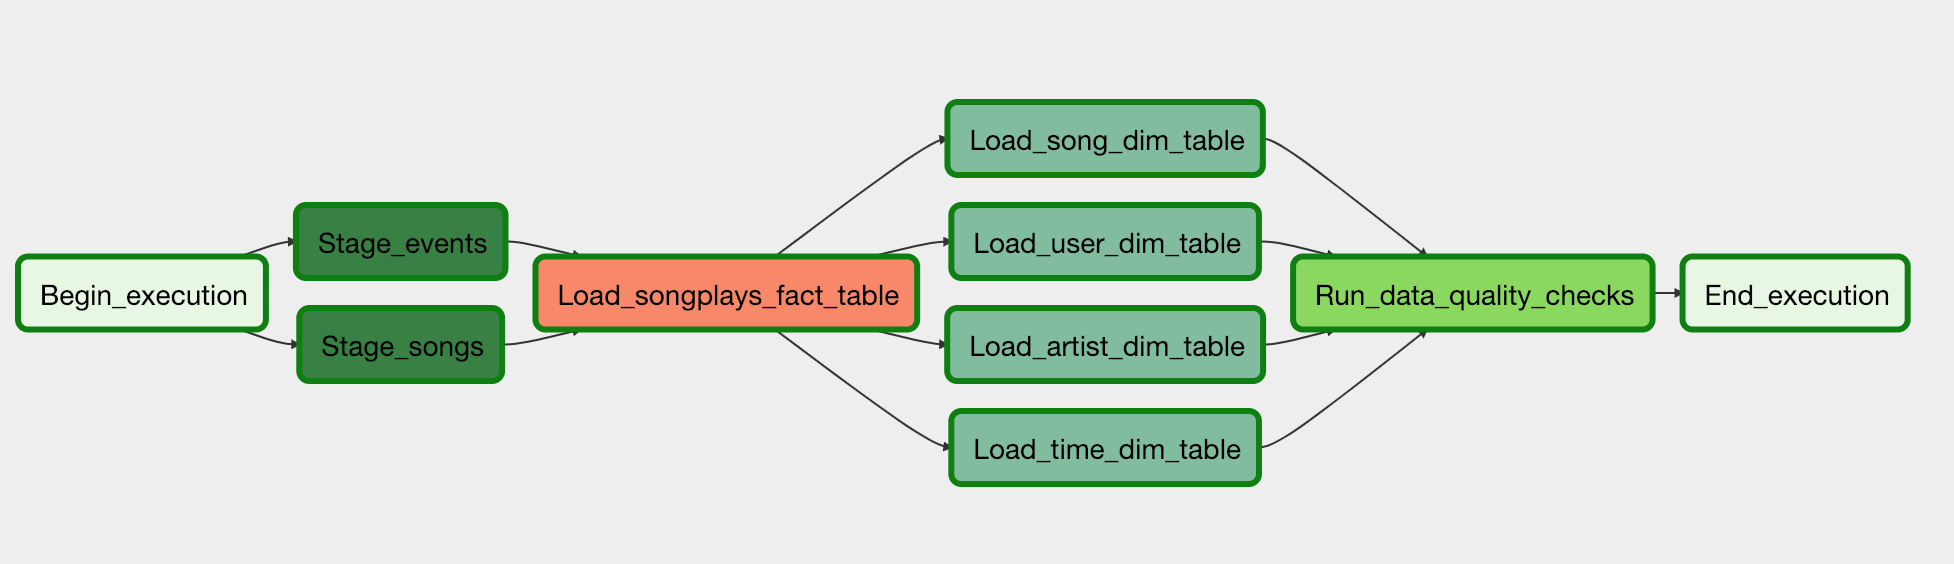
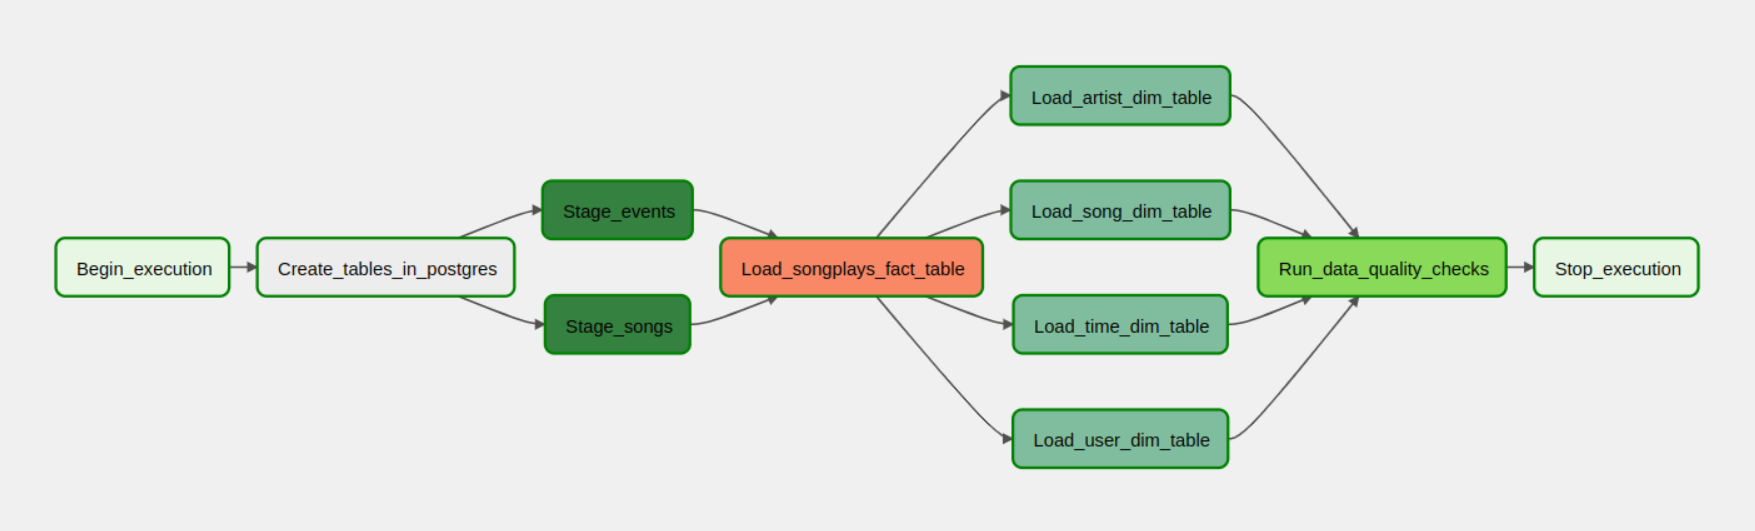
fix: documentation with picture

Changed region(s): [[0.0, 0.1205, 0.9846, 0.693], [0.4615, 0.7232, 0.7077, 0.904]]

diff --git a/README.md b/README.md
@@ -12,10 +12,11 @@ The source data resides in S3 and needs to be processed in Sparkify's data wareh
 ## Project Description
 
 In this Project an ETL Pipeline is implemented, which 
-1. copying from staging the data into redshift
-2. load the data from the staging into fact-table
-3. load the data from the staging into dimension-table
-4. run the data quality checks
+1. Creating the tables in the Redshift database if not exist
+2. copying from staging the data into redshift
+3. load the data from the staging into fact-table
+4. load the data from the staging into dimension-table
+5. run the data quality checks
 
 ![pipeline](./assets/pipeline.png)
 
@@ -210,7 +211,7 @@ terrafrom apply
 ```
 ---
 ## Installing Airflow
-Installing `airflow 2.2.4` and its packages to ease the development locally.
+Installing `airflow 2.2.4` and its packages to **ease the development** locally.
 ```bash
 export AIRFLOW_VERSION=2.2.4
 export PYTHON_VERSION="$(python --version | cut -d " " -f 2 | cut -d "." -f 1-2)"
@@ -219,15 +220,21 @@ pip install "apache-airflow[postgres,amazon]==${AIRFLOW_VERSION}" --constraint "
 ```
 
 ## Run Airflow
-1. Fill out the `dwh.cfg` file with your AWS credentials. It could be done in 2 ways:
+1. Fillout `.env` file with all necessary environment variable. It could be done in 2 ways:
    1. By creating infrastructure yourself and sync secrets to your local machine.
       - Make sure `~/.aws/credentials` is set to `udacity`, otherwise change the variable `AWS_PROFILE` in `sync_secret.py`
-      - Run sync_secret.py to sync the AWS secrets to the `dwh.cfg` file. (It will generate automatically if it doesn't exist from the template file)
-   2. By filling out manually.
+      - Run sync_secret.py to sync the AWS secrets to the `.env` file. (It will generate automatically)
+   2. By filling out manually with following template in `.env`file:
+    ```bash
+    AIRFLOW_CONN_REDSHIFT_CONN_ID=<<FILL ME>>
+    AIRFLOW_VAR_REDSHIFT_IAM_ARN=<FILL ME>
+    ```
 
-```bash
-docker-compose up -d
-```
+2. Run airflow with `docker-compose up` command.
+    ```bash
+    docker-compose up -d
+    ```
+
 
 - Login to Airflow UI: http://localhost:8080
   - User: airflow
